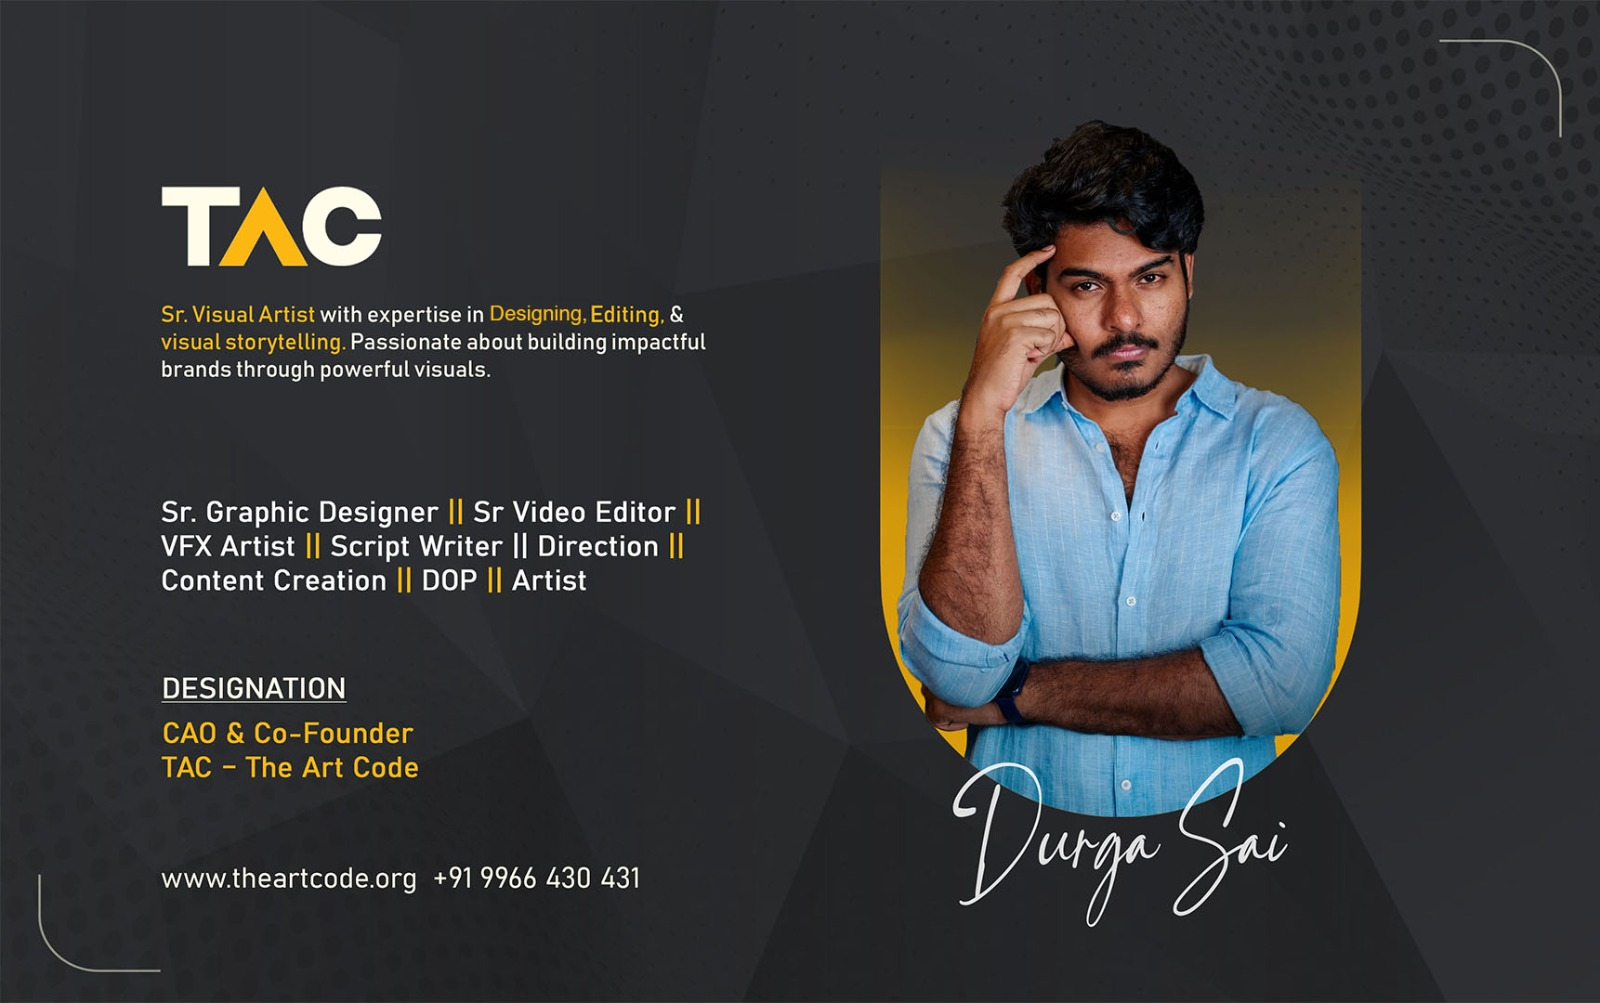
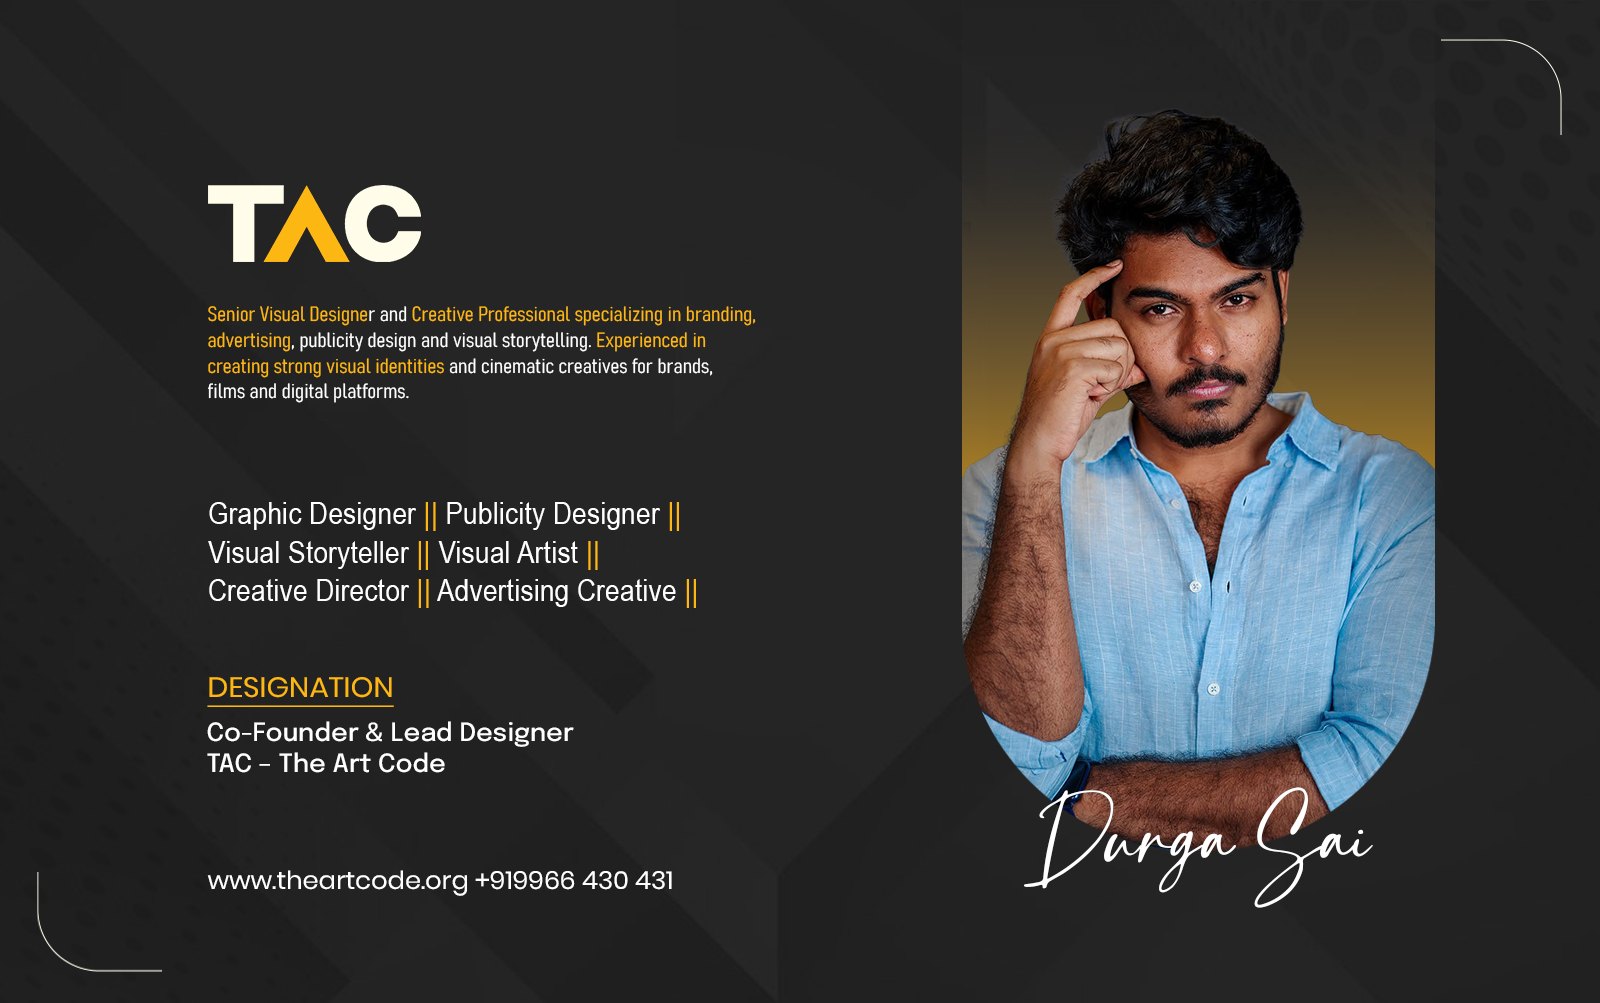
Add Average Package (3.5 LPA) block to Hires By section

diff --git a/app/components/HiresBySection.tsx b/app/components/HiresBySection.tsx
@@ -96,9 +96,9 @@ export default function HiresBySection({
           Hires <span className="text-gold">By</span>
         </h2>
 
-        {/* Replaced Subtitle with 4 Prominent Stat Cards featuring Large Icons */}
-        <div className="mx-auto mt-7 sm:mt-9 max-w-4xl">
-          <div className="grid grid-cols-2 gap-3 sm:gap-4 md:grid-cols-4">
+        {/* Replaced Subtitle with 5 Prominent Stat Cards featuring Large Icons */}
+        <div className="mx-auto mt-7 sm:mt-9 max-w-[1100px]">
+          <div className="grid grid-cols-2 gap-3 sm:gap-4 md:grid-cols-5">
             {/* Card 1: 40+ Hiring Studios */}
             <div className="group relative flex flex-col items-center justify-center rounded-2xl border border-white/10 bg-white/[0.03] p-4 sm:p-5 text-center shadow-lg backdrop-blur-md transition-all duration-300 hover:border-gold/50 hover:bg-white/[0.06] hover:shadow-[0_0_30px_rgba(255,184,0,0.25)] hover:-translate-y-1">
               <div className="mb-2.5 flex h-12 w-12 items-center justify-center rounded-xl bg-gold/10 text-gold transition-transform duration-300 group-hover:scale-110">
@@ -141,8 +141,23 @@ export default function HiresBySection({
               </p>
             </div>
 
-            {/* Card 4: 60 Days Avg Placement Time */}
+            {/* Card 4: ₹3.5 LPA Average Package */}
             <div className="group relative flex flex-col items-center justify-center rounded-2xl border border-white/10 bg-white/[0.03] p-4 sm:p-5 text-center shadow-lg backdrop-blur-md transition-all duration-300 hover:border-gold/50 hover:bg-white/[0.06] hover:shadow-[0_0_30px_rgba(255,184,0,0.25)] hover:-translate-y-1">
+              <div className="mb-2.5 flex h-12 w-12 items-center justify-center rounded-xl bg-purple-500/10 text-[#c084fc] transition-transform duration-300 group-hover:scale-110">
+                <svg viewBox="0 0 24 24" className="h-6 w-6" fill="none" stroke="currentColor" strokeWidth="1.8">
+                  <rect x="3" y="12" width="4" height="8" rx="1" />
+                  <rect x="10" y="8" width="4" height="12" rx="1" />
+                  <rect x="17" y="4" width="4" height="16" rx="1" />
+                </svg>
+              </div>
+              <p className="text-2xl sm:text-3xl font-black text-white">3.5 LPA</p>
+              <p className="mt-1 text-[11px] sm:text-xs font-bold uppercase tracking-wider text-gray-light">
+                Average Package
+              </p>
+            </div>
+
+            {/* Card 5: 60 Days Avg Placement Time */}
+            <div className="col-span-2 md:col-span-1 group relative flex flex-col items-center justify-center rounded-2xl border border-white/10 bg-white/[0.03] p-4 sm:p-5 text-center shadow-lg backdrop-blur-md transition-all duration-300 hover:border-gold/50 hover:bg-white/[0.06] hover:shadow-[0_0_30px_rgba(255,184,0,0.25)] hover:-translate-y-1">
               <div className="mb-2.5 flex h-12 w-12 items-center justify-center rounded-xl bg-sky-500/10 text-[#38bdf8] transition-transform duration-300 group-hover:scale-110">
                 <svg viewBox="0 0 24 24" className="h-6 w-6" fill="none" stroke="currentColor" strokeWidth="1.8">
                   <circle cx="12" cy="12" r="9" />
